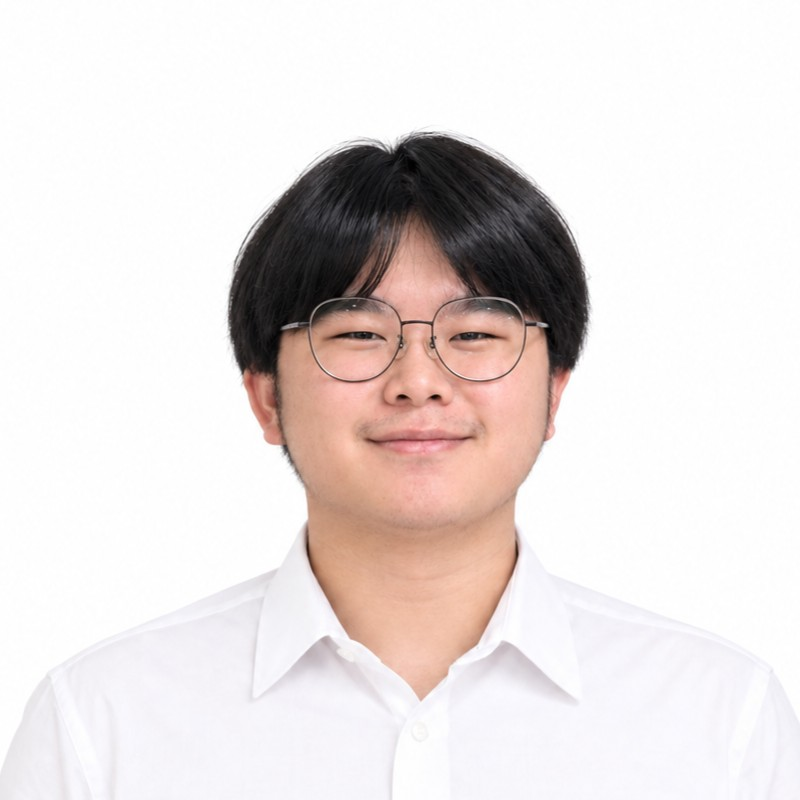
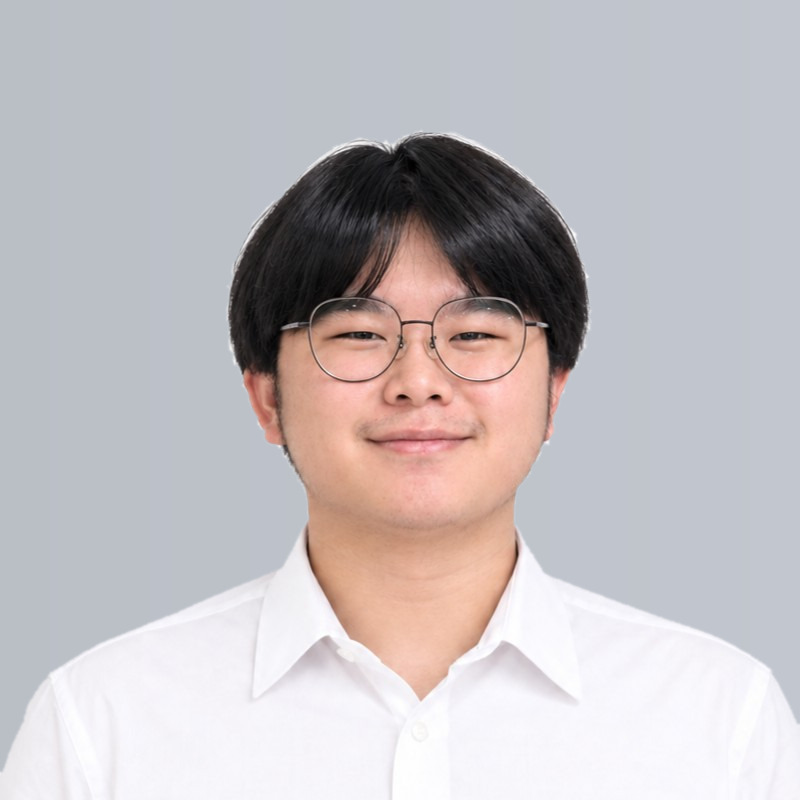
Photograph the whole team against one backdrop
แทนไท and ของขวัญ had no photo and fell back to a letter avatar; สิน's was a
warm-toned snapshot and ปาล์ม's sat on pure white, so the five cards read as
five unrelated pictures.

All four are now composited onto the same light studio grey sampled off
kanta.jpg (186,191,198 -> 194,198,206 left to right, near-flat) and framed to
kanta's proportions.

ปาล์ม was the awkward one — a white shirt on a white background, with no
measurable luminance gap between the two below the shoulder line (both read
245-248). The matte comes from a flood fill seeded only from the top and from
the side margins above y=620, kept at a tight near-white threshold, then eroded
2px so the old backdrop's anti-aliased fringe falls outside the cut rather than
leaving a halo.

How the panel crops decided the framing: the photo is square and every panel is
taller than it is wide, so object-cover scales by height and the panel shows
only the middle panelW/panelH of the picture. แทนไท's and กันตะ's cards carry
three tags, which makes them 144x307 on a phone against 144x252 for the rest —
a 47% window instead of 57%. แทนไท's head spanned 26.1%-73.9% and so lost 0.4%
of hair on each side; his crop is now 780px of the source instead of 682, which
puts the head at 29.2%-70.8% with room to spare. สิน is zoomed out the same way
(694 -> 770). กันตะ needed the opposite — his head silhouette was centred but
his face sat at 48.2% because the hair is fuller on one side, so object-position
[…]

diff --git a/lib/data.js b/lib/data.js
@@ -172,7 +172,7 @@ export const team = [
     name: "จิรสิน จานะพร",
     nickname: "สิน",
     image: "/team/sin.jpg",
-    focal: "50% 48%",
+    focal: "50% 40%",
     role: "Chief Financial Officer",
     education: "Bachelor of Science in Statistics, Chulalongkorn University",
     quote: "ตัวเลขที่แม่นยำ คือรากฐานของไอเดียที่ยั่งยืน",
@@ -180,6 +180,8 @@ export const team = [
   {
     name: "ขวัญชนก สงฆ์มีสุข",
     nickname: "ของขวัญ",
+    image: "/team/kwan.jpg",
+    focal: "50% 40%",
     role: "General Manager",
     education: "Bachelor of Arts (Learning Sciences), Thammasat University",
     quote: "ทุกกระบวนการต้องราบรื่น ทุกคนต้องได้ประสบการณ์ที่ดีที่สุด",
@@ -188,7 +190,7 @@ export const team = [
     name: "ธนภัทร สงนวน",
     nickname: "กันตะ",
     image: "/team/kanta.jpg",
-    focal: "50% 39%",
+    focal: "46% 39%",
     role: "Senior Learning Designer",
     education: "Bachelor of Arts (Learning Sciences), Thammasat University",
     quote: "เชื่อว่าไอเดียที่ดีเริ่มจากคำถามที่กล้าตั้ง",
@@ -206,6 +208,8 @@ export const team = [
   {
     name: "แทนไท ตั้งวนิชกุล",
     nickname: "แทนไท",
+    image: "/team/tanthai.jpg",
+    focal: "50% 40%",
     role: "Senior Learning Designer",
     education: "Bachelor of Arts (Learning Sciences), Thammasat University",
     quote: "เรื่องเล่าที่ดี เปลี่ยนมุมมองคนได้เสมอ",
